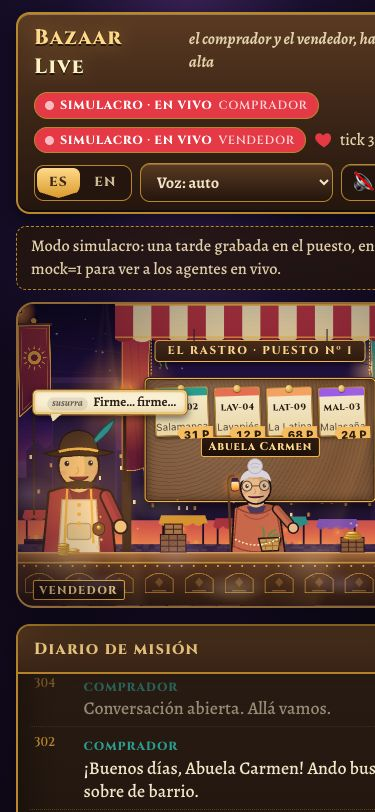
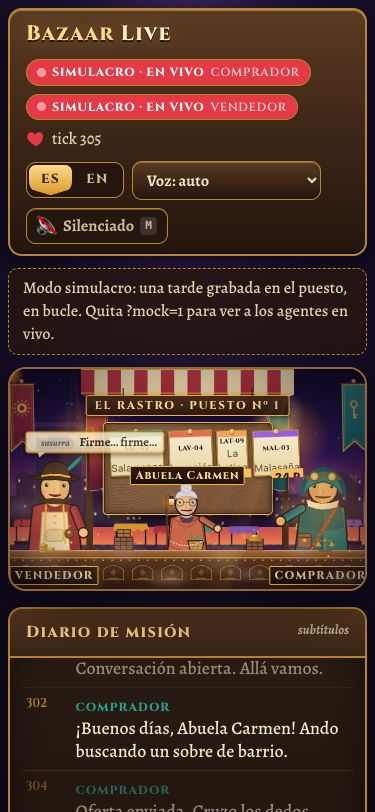
fix: no horizontal overflow on a phone; retake the 375 px screenshots

diff --git a/src/ui/chrome.css b/src/ui/chrome.css
@@ -214,3 +214,37 @@ body {
   color: var(--gold-soft);
   letter-spacing: 0.08em;
 }
+
+/* phones: nothing may push the page wider than the screen */
+
+.app {
+  grid-template-columns: minmax(0, 1fr);
+}
+
+.header,
+.notice,
+.main > * {
+  min-width: 0;
+}
+
+.controls {
+  flex-wrap: wrap;
+}
+
+.brand {
+  flex-wrap: wrap;
+}
+
+@media (max-width: 520px) {
+  .app {
+    padding: 8px;
+  }
+
+  .brand small {
+    display: none;
+  }
+
+  .control {
+    padding: 6px 10px;
+  }
+}
